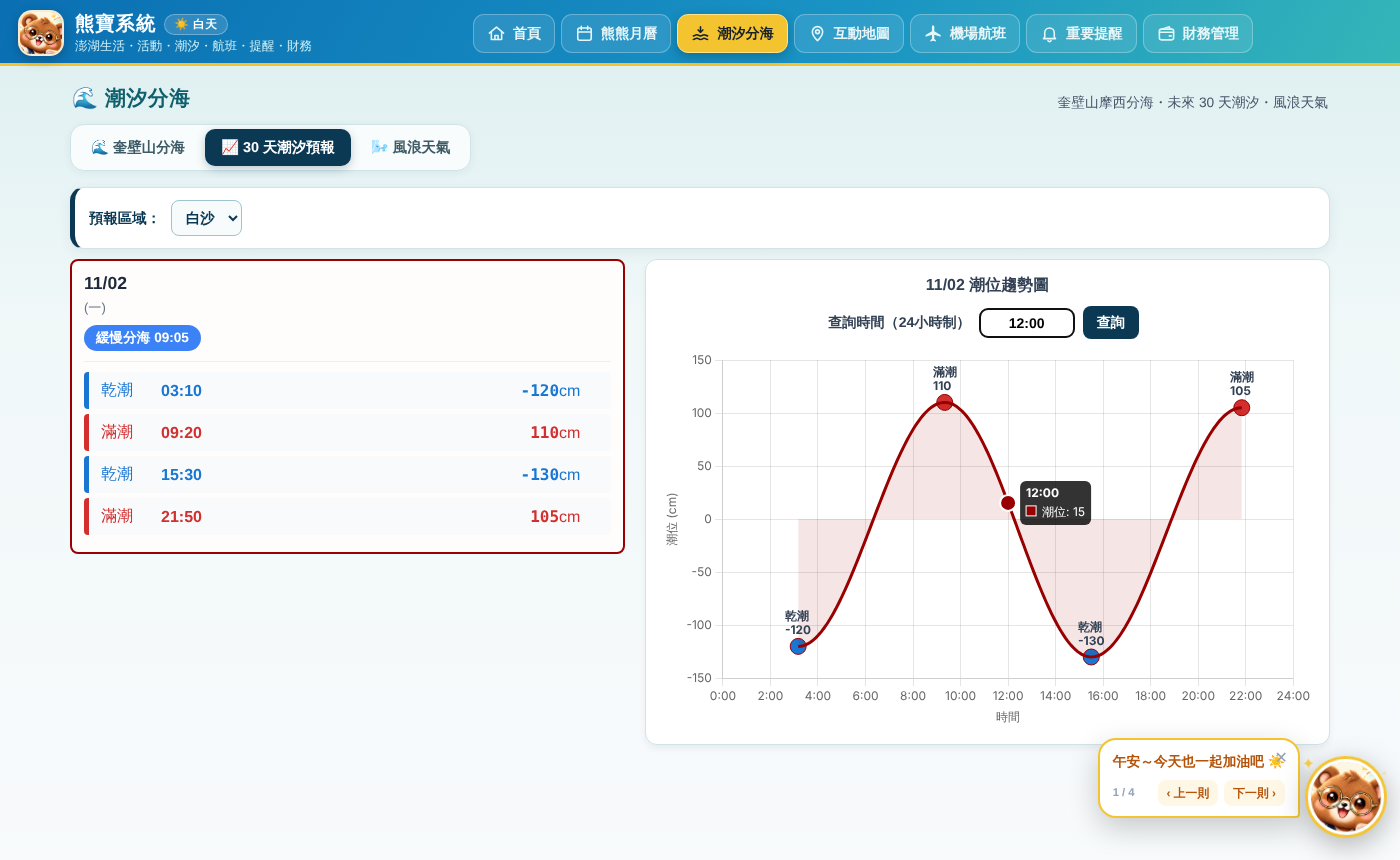
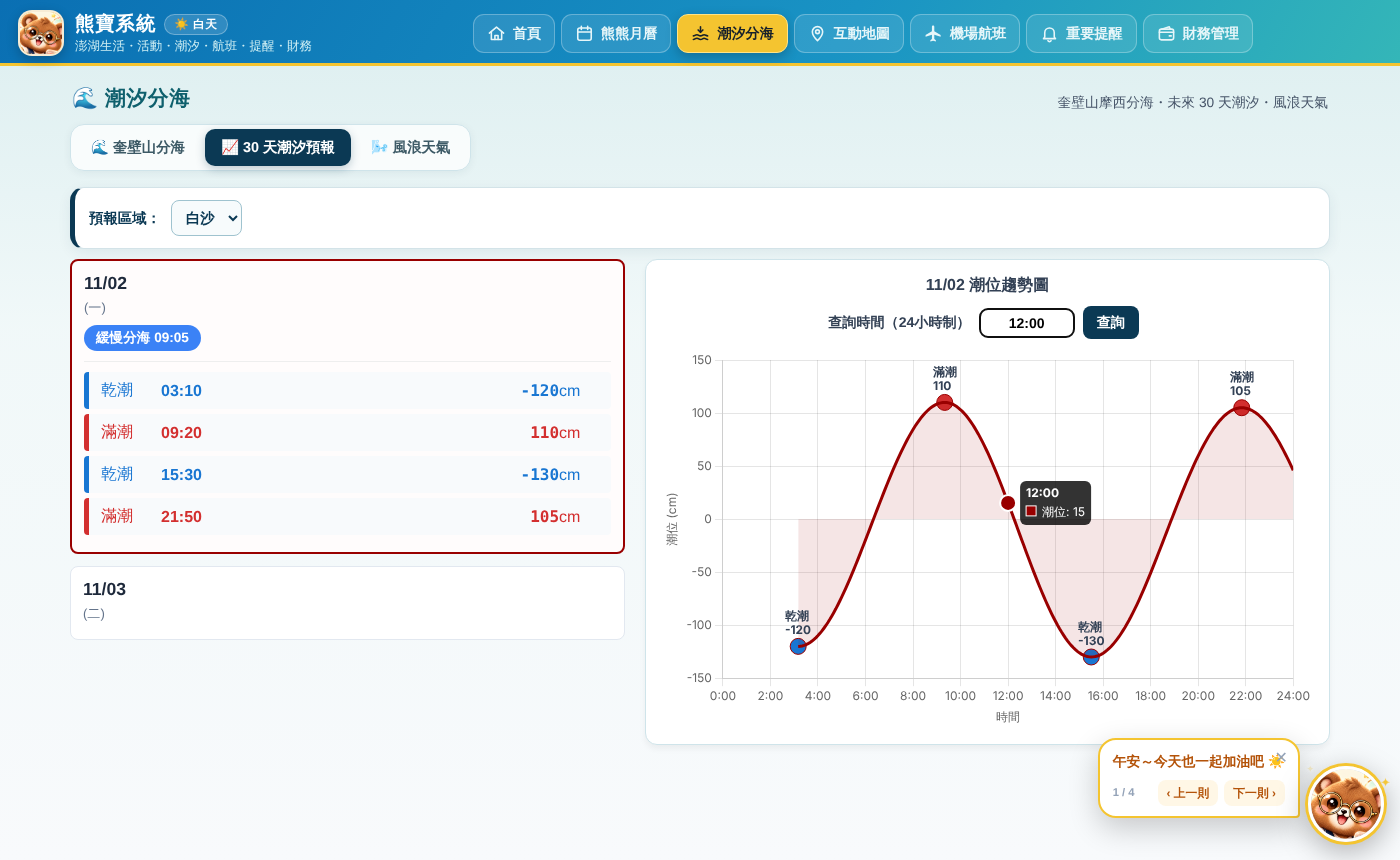
電腦端潮位趨勢圖：無前後天資料時，曲線只畫到當天首末筆
Claude-Session: https://claude.ai/code/session_01Jz8hwVSEqg8eTSfeV57hjY

Changed region(s): [[0.9214, 0.8767, 1.0, 0.9977], [0.8907, 0.4837, 0.9214, 0.6047], [0.0614, 0.6651, 0.0921, 0.6953]]

diff --git a/index.html b/index.html
@@ -2484,10 +2484,10 @@ function makeTideChart(k, canvasId, titleId, infoId) {
     const near = list => (list || []).map(t => ({ m: tdToMin(t.time), h: t.height })).filter(p => p.m != null).sort((a, b) => a.m - b.m);
     const prev = near(adj && adj.prev), next = near(adj && adj.next);
     const today = points.map(p => ({ m: p.x, h: p.y }));
-    /* 沒有前一天／後一天資料（例如最後一天 12/31）：以當天第一筆／最後一筆資料定位，曲線延伸到 0 時／24 時 */
-    const head = prev.length ? { m: prev[prev.length - 1].m - 1440, h: prev[prev.length - 1].h } : today.length ? { m: Math.min(-1, today[0].m - 1), h: today[0].h } : null;
-    const tail = next.length ? { m: next[0].m + 1440, h: next[0].h } : today.length ? { m: Math.max(1441, today[today.length - 1].m + 1), h: today[today.length - 1].h } : null;
-    const ext = today.length ? [head, ...today, tail] : [], curve = [];
+    /* 沒有前一天／後一天資料（例如最後一天 12/31）：曲線只畫到當天第一筆／最後一筆資料 */
+    const head = prev.length ? [{ m: prev[prev.length - 1].m - 1440, h: prev[prev.length - 1].h }] : [];
+    const tail = next.length ? [{ m: next[0].m + 1440, h: next[0].h }] : [];
+    const ext = today.length ? [...head, ...today, ...tail] : [], curve = [];
     if (ext.length >= 2) {
       const from = Math.max(0, ext[0].m), to = Math.min(1440, ext[ext.length - 1].m);
       for (let m = Math.ceil(from); m < to; m += 5) curve.push({ x: m, y: Math.round(cosTideAt(ext, m) * 10) / 10 });

diff --git a/sw.js b/sw.js
@@ -1,4 +1,4 @@
-const VERSION = 'bearbao-2026-11-02-v2';
+const VERSION = 'bearbao-2026-11-02-v3';
 const SHELL_CACHE = `bearbao-shell-${VERSION}`;
 const DATA_CACHE = 'bearbao-sheet-data';
 const LIB_CACHE = 'bearbao-libs';
